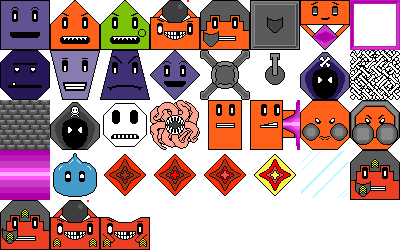
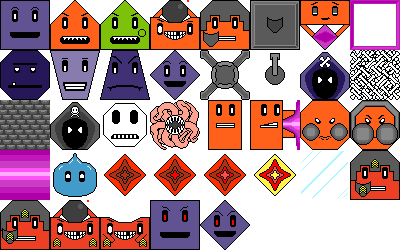
Basic enemies attack now

Changed region(s): [[0.36, 0.784, 0.63, 1.0]]

diff --git a/Bouncy/js/GameElements/Enemies/UnitBasic.js b/Bouncy/js/GameElements/Enemies/UnitBasic.js
@@ -56,14 +56,23 @@ class UnitBasic extends Unit {
     this.abilityForecasts.forEach((forecast) => forecast.removeFromStage());
     this.abilityForecasts = [];
     for (let i = 0; i < this.getNumAbilitiesToUse(); i++) {
-      let abilIndex = this.pickRandomAbilityIndex(boardState);
-      if (abilIndex === undefined) { return; }
-
-      const forecast = this.abilities[abilIndex].value.createForecast(boardState, this, abilIndex);
-      if (!forecast) { continue; }
-
-      this.abilityForecasts.push(forecast); 
+      this.forecastRandomAbility(boardState);
     }
+  }
+
+  forecastRandomAbility(boardState) {
+    this.forecastAbility(boardState, this.pickRandomAbilityIndex(boardState));
+  }
+
+  forecastAbility(boardState, abilIndex) {
+    if (this.abilities[abilIndex] === undefined) {
+      return;
+    }
+
+    const forecast = this.abilities[abilIndex].value.createForecast(boardState, this, abilIndex);
+    if (!forecast) { return; }
+
+    this.abilityForecasts.push(forecast); 
   }
 
   getNumAbilitiesToUse() {
@@ -137,7 +146,7 @@ class UnitBasic extends Unit {
     }
   }
 
-  createHealthBarSprite(sprite) {
+  createHealthBarSprite(container) {
     // TODO:  If you're seeing some slowdown, there's probably a better way of doing this.
     if (this.healthBarSprites.textSprite) {
       this.gameSprite.removeChild(this.healthBarSprites.textSprite);
@@ -152,7 +161,7 @@ class UnitBasic extends Unit {
       colour = 'darkgray';
     }
 
-    var fontSize = 10;
+    var fontSize = 8;
     var healthBarGraphic = new PIXI.Text(
       text,
       {
@@ -167,17 +176,19 @@ class UnitBasic extends Unit {
       }
     );
     healthBarGraphic.anchor.set(0.5);
-    healthBarGraphic.position.set(0, 20);
-    sprite.addChild(healthBarGraphic);
+    healthBarGraphic.position.set(0, 15);
+    container.addChild(healthBarGraphic);
 
     this.healthBarSprites.textSprite = healthBarGraphic;
   }
 
+  createSprite(resourceName) {
+
+  }
+
   createSpriteFromResource(resource, hideHealthBar) {
+    let container = new PIXI.Container();
     var sprite = new PIXI.Sprite(ImageLoader.getEnemyTexture(resource));
-    if (!hideHealthBar) {
-      this.createHealthBarSprite(sprite);
-    }
 
     sprite.anchor.set(0.5);
     /*for (var effect in this.statusEffects) {
@@ -186,7 +197,15 @@ class UnitBasic extends Unit {
 
     sprite.width = this.physicsWidth;
     sprite.height = this.physicsHeight;
-    return sprite;
+
+    this.sprites = { [resource]: sprite };
+    
+    container.addChild(sprite);
+    if (!hideHealthBar) {
+      this.createHealthBarSprite(container);
+    }
+
+    return container;
   }
 
   createSpriteListFromResourceList(resources, hideHealthBar) {
@@ -205,14 +224,14 @@ class UnitBasic extends Unit {
         onFirst = false;
       }
 
+      this.sprites[res].width = this.physicsWidth;
+      this.sprites[res].height = this.physicsHeight;
       container.addChild(this.sprites[res]);
     }
     if (!hideHealthBar) {
       this.createHealthBarSprite(container);
     }
-
-    container.width = this.physicsWidth;
-    container.height = this.physicsHeight;
+    
     return container;
   }
 
@@ -225,6 +244,7 @@ class UnitBasic extends Unit {
   }
 
   createSprite(hideHealthBar) {
+    throw new Error("createSprite must be overridden in a child class");
     this.createSpriteFromResource('byte_diamond_red', hideHealthBar);
   }
 
@@ -391,6 +411,10 @@ class UnitBasic extends Unit {
 
   isRealUnit() {
     return true;
+  }
+
+  canBasicAttack() {
+    return false;
   }
 
   endOfPhase(boardState, phase) {

diff --git a/Bouncy/js/Turns/TurnController.js b/Bouncy/js/Turns/TurnController.js
@@ -26,51 +26,56 @@ export class TurnController {
     }
 
     playOutTurn(currPhase) {
-        if (this.playingOutTurn && !currPhase) { return; }
-        if (!currPhase) {
-            $('#gameContainer').addClass("turnPlaying");
-            this.mainGameHandler.removeAllPlayerCommands();
-            for (let pid in this.mainGameHandler.playerCommands) {
-                for (let command of this.mainGameHandler.playerCommands[pid].getCommands()) {
-                    if (command instanceof PlayerCommandUseAbility) {
-                        this.boardState.gameStats.addAbilityUseCount(pid, command.abilityID);
-                    }
-                }
-            }
-        }
+      if (this.playingOutTurn && !currPhase) { return; }
+      if (!currPhase) {
+          $('#gameContainer').addClass("turnPlaying");
+          this.mainGameHandler.removeAllPlayerCommands();
+          for (let pid in this.mainGameHandler.playerCommands) {
+              for (let command of this.mainGameHandler.playerCommands[pid].getCommands()) {
+                  if (command instanceof PlayerCommandUseAbility) {
+                      this.boardState.gameStats.addAbilityUseCount(pid, command.abilityID);
+                  }
+              }
+          }
+      }
 
-        this.playingOutTurn = true;
-        this.mainGameHandler.updateActionHint();
-        if (currPhase) {
-            this.boardState.endOfPhase(this.mainGameHandler.players, currPhase);
-        }
-        var phase = !!currPhase ?
-            TurnPhasesEnum.getNextPhase(currPhase) :
-            TurnPhasesEnum.START_TURN;
+      this.playingOutTurn = true;
+      this.mainGameHandler.updateActionHint();
+      if (currPhase) {
+          this.boardState.endOfPhase(this.mainGameHandler.players, currPhase);
+          this.endOfPhase(currPhase);
+      }
+      var phase = !!currPhase ?
+          TurnPhasesEnum.getNextPhase(currPhase) :
+          TurnPhasesEnum.START_TURN;
 
-        this.startOfPhase(phase);
+      this.startOfPhase(phase);
 
-        if (phase == TurnPhasesEnum.NEXT_TURN) {
-            this.finalizedTurnOver();
-        } else {
-            this.loopTicksForPhase(phase);
-        }
+      if (phase == TurnPhasesEnum.NEXT_TURN) {
+          this.finalizedTurnOver();
+      } else {
+          this.loopTicksForPhase(phase);
+      }
     }
 
     startOfPhase(phase) {
-        if (phase == TurnPhasesEnum.ENEMY_MOVE) {
-          AIDirector.giveUnitsOrders(this.boardState);
-        }
-        if (phase == TurnPhasesEnum.ENEMY_MOVE) {
-          AIDirector.spawnForTurn(this.boardState);
-        }
-    
-        if (phase == TurnPhasesEnum.ENEMY_ACTION) {
-          this.boardState.doUnitActions(this.boardState);
-        }
-    
-        this.boardState.startOfPhase(phase);
+      if (phase === TurnPhasesEnum.ENEMY_MOVE) {
+        AIDirector.giveUnitsOrders(this.boardState);
       }
+      if (phase === TurnPhasesEnum.ENEMY_MOVE) {
+        AIDirector.spawnForTurn(this.boardState);
+      }
+  
+      if (phase === TurnPhasesEnum.ENEMY_ACTION) {
+        this.boardState.startOfEnemyActionPhase(this.boardState);
+      }
+  
+      this.boardState.startOfPhase(phase);
+    }
+
+    endOfPhase(phase) {
+      AIDirector.endOfPhase(phase, this.boardState)
+    }
     
     loopTicksForPhase(phase) {
         var result = this.mainGameHandler.doTick(phase);

diff --git a/Bouncy/js/GameElements/Enemies/UnitBasicAttacker.js b/Bouncy/js/GameElements/Enemies/UnitBasicAttacker.js
@@ -1,0 +1,42 @@
+class UnitBasicAttacker extends UnitBasic {
+  constructor(x, y, owner, id, basicSprite, attackingSprite) {
+    super(x, y, owner, id);
+    this.basicSprite = basicSprite;
+    this.attackingSprite = attackingSprite;
+    this.addAbility(20, new EnemyAbilityBasicEnemyAttack(
+      this,
+      NumbersBalancer.getUnitAbilityNumber(this, NumbersBalancer.UNIT_ABILITIES.BASIC_ENEMY_DAMAGE)
+    ));
+  }
+
+  canBasicAttack() {
+    return true;
+  }
+
+  forecastBasicAttackAbility(boardState) {
+    this.forecastAbility(boardState, 0);
+    this.setSpriteVisible(this.attackingSprite);
+  }
+
+  useForecastAbilities(boardState, index = -1) {
+    super.useForecastAbilities(boardState, index);
+    this.setSpriteVisible(this.basicSprite);
+  }
+
+  getNumAbilitiesToUse() {
+    return 0;
+  }
+
+  startOfEnemyActionPhase(boardState) {
+    if (!this.canUseAbilities()) { return; }
+    this.useForecastAbilities(boardState);
+  }
+
+  createSprite(hideHealthBar) {
+    const spriteList = this.createSpriteListFromResourceList([this.basicSprite, this.attackingSprite], hideHealthBar);
+    if (this.abilityForecasts.length > 0) {
+      this.setSpriteVisible(this.attackingSprite);
+    }
+    return spriteList;
+  }
+}

diff --git a/Bouncy/js/AIDirector/AIDirector.js b/Bouncy/js/AIDirector/AIDirector.js
@@ -183,6 +183,27 @@ class AIDirector {
     });
   }
 
+  endOfPhase(phase, boardState) {
+    if (phase === TurnPhasesEnum.ENEMY_SPAWN) {
+      this.setupBasicAttacks(boardState);
+    }
+  }
+
+  setupBasicAttacks(boardState) {
+    const NUM_ENEMIES_ATTACKING = 5;
+    const basicAttackingEnemies = boardState.units.filter((unit) => 
+      unit.canBasicAttack && unit.canBasicAttack()
+    )
+
+    const numUnitsToOrder = Math.min(basicAttackingEnemies.length, NUM_ENEMIES_ATTACKING);
+    for (let i = 0; i < numUnitsToOrder; i++) {
+      const index = Math.floor(boardState.getRandom() * basicAttackingEnemies.length);
+      const orderedEnemy = basicAttackingEnemies.splice(index, 1);
+      orderedEnemy[0].forecastBasicAttackAbility(boardState);
+      orderedEnemy[0].addAbilityForecastsToStage(boardState, boardState.renderContainers.abilityForecasts);
+    }
+  }
+
   giveUnitsOrders(boardState) {
     boardState.sortUnitsByPosition();
     for (var i = 0; i < boardState.units.length; i++) {

diff --git a/Bouncy/js/ImageLoader.js b/Bouncy/js/ImageLoader.js
@@ -60,5 +60,6 @@ ImageLoader.spriteMap = {
   enemy_square: 0, enemy_shoot: 1, enemy_bomber: 3, enemy_knight: 4, zone_shield: 5, enemy_protector: 6, zone_energy_shield: 7,
   enemy_strong: 8, enemy_fast: 9, enemy_shover: 10, enemy_diamond: 11, enemy_necromancer: 14, enemy_bone_wall: 15,
   enemy_castle_wall: 16, enemy_warlock: 17, enemy_skeleton: 18, enemy_blocker: 20, enemy_blocker_active: 21, enemy_damage_limit: 22, enemy_damage_limit_2: 23,
-  zone_blocker_barrier: 24, enemy_slime: 25, fire_shard_0: 26, fire_shard_1: 27, fire_shard_2: 28, fire_shard_3: 29, enemy_ice_wall: 30
+  zone_blocker_barrier: 24, enemy_slime: 25, fire_shard_0: 26, fire_shard_1: 27, fire_shard_2: 28, fire_shard_3: 29, enemy_ice_wall: 30, enemy_square_attacking: 35,
+  enemy_diamond_attacking: 36
 };

diff --git a/Bouncy/js/AIDirector/NumbersBalancer.js b/Bouncy/js/AIDirector/NumbersBalancer.js
@@ -234,6 +234,8 @@ class NumbersBalancer {
         return 200 * playerMult * difficultyMult * powerLevelMultiplier;
       case this.UNIT_ABILITIES.SHOOTER_DAMAGE:
         return 2;
+      case this.UNIT_ABILITIES.BASIC_ENEMY_DAMAGE:
+        return 1;
       case this.UNIT_ABILITIES.BOMBER_EXPLOSION_DAMAGE:
         return 20;
       case this.UNIT_ABILITIES.BOMBER_DURATION:
@@ -288,6 +290,7 @@ NumbersBalancer.prototype.UNIT_ABILITIES = {
   PROTECTOR_SHIELD_RANGE: 'protector_shield_range',
   KNIGHT_SHIELD: 'knight_shield',
   SHOOTER_DAMAGE: 'shooter_damage',
+  BASIC_ENEMY_DAMAGE: 'BASIC_ENEMY_DAMAGE',
   BOMBER_EXPLOSION_DAMAGE: 'bomber_explosion_damage',
   BOMBER_DURATION: 'BOMBER_DURATION',
   UNIT_BOSS_HEALER_RANGE: 'UNIT_BOSS_HEALER_RANGE',

diff --git a/Bouncy/js/GameElements/Enemies/UnitBasicDiamond.js b/Bouncy/js/GameElements/Enemies/UnitBasicDiamond.js
@@ -1,4 +1,8 @@
-class UnitBasicDiamond extends UnitBasic {
+class UnitBasicDiamond extends UnitBasicAttacker {
+  constructor(x, y, owner, id) {
+    super(x, y, owner, id, 'enemy_diamond', 'enemy_diamond_attacking');
+  }
+
   createCollisionBox() {
     this.collisionBox = [
       new UnitLine(0, -this.physicsHeight / 2, this.physicsWidth / 2, 0, this), // Top Right
@@ -6,10 +10,6 @@ class UnitBasicDiamond extends UnitBasic {
       new UnitLine(0, this.physicsHeight / 2, -this.physicsWidth / 2, 0, this), // Bottom Left
       new UnitLine(-this.physicsWidth / 2, 0, 0, -this.physicsHeight / 2, this), // Top Left
     ];
-  }
-
-  createSprite(hideHealthBar) {
-    return this.createSpriteFromResource('enemy_diamond', hideHealthBar);
   }
 }
 

diff --git a/Bouncy/js/GameElements/Enemies/UnitBasicSquare.js b/Bouncy/js/GameElements/Enemies/UnitBasicSquare.js
@@ -1,4 +1,8 @@
-class UnitBasicSquare extends UnitBasic {
+class UnitBasicSquare extends UnitBasicAttacker {
+  constructor(x, y, owner, id) {
+    super(x, y, owner, id, 'enemy_square', 'enemy_square_attacking');
+  }
+
   createCollisionBox() {
     var t = -this.physicsHeight / 2;
     var b = this.physicsHeight / 2;
@@ -12,10 +16,6 @@ class UnitBasicSquare extends UnitBasic {
       new UnitLine(r + offset, b, l - offset, b, this), // Bottom
       new UnitLine(l, b + offset, l, t - offset, this), // Left
     ];
-  }
-
-  createSprite(hideHealthBar) {
-    return this.createSpriteFromResource('enemy_square', hideHealthBar);
   }
 }
 

diff --git a/Bouncy/js/AIDirector/LevelDefs/LevelDefsWorld1.js b/Bouncy/js/AIDirector/LevelDefs/LevelDefsWorld1.js
@@ -25,7 +25,7 @@ class LevelDefsWorld1 {
           [_, _, _, _, A, A, A, A, A, A, A, _, _, _, _],
           [_, _, _, A, B, B, A, _, A, B, B, A, _, _, _],
           [_, _, A, B, B, A, _, _, _, A, B, B, A, _, _],
-          [_, A, B, B, A, _, _, UnitBossGrandWizard, _, _, A, B, B, A, _],
+          [_, A, B, B, A, _, _, _, _, _, A, B, B, A, _],
           [A, A, A, A, _, _, _, _, _, _, _, A, A, A, A],
         ],
         'waves':[

diff --git a/Bouncy/js/BoardState.js b/Bouncy/js/BoardState.js
@@ -506,9 +506,9 @@ export class BoardState {
     }
   }
 
-  doUnitActions() {
+  startOfEnemyActionPhase() {
     for (var unit in this.units) {
-      this.units[unit].doUnitActions(this);
+      this.units[unit].startOfEnemyActionPhase(this);
     }
 
     this.doDeleteChecks();

diff --git a/Bouncy/js/GameElements/Enemies/UnitShooter.js b/Bouncy/js/GameElements/Enemies/UnitShooter.js
@@ -25,7 +25,7 @@ class UnitShooter extends UnitBasic {
     ];
   }
 
-  doUnitActions(boardState) {
+  startOfEnemyActionPhase(boardState) {
     if (!this.canUseAbilities()) { return; }
     this.useForecastAbilities(boardState);
   }

diff --git a/Bouncy/js/GameElements/Unit.js b/Bouncy/js/GameElements/Unit.js
@@ -77,7 +77,7 @@ class Unit {
 
   createCollisionBox() {}
 
-  doUnitActions(boardState) {}
+  startOfEnemyActionPhase(boardState) {}
 
   createTooltip() {
     return UnitTooltips.createTooltip(this);
